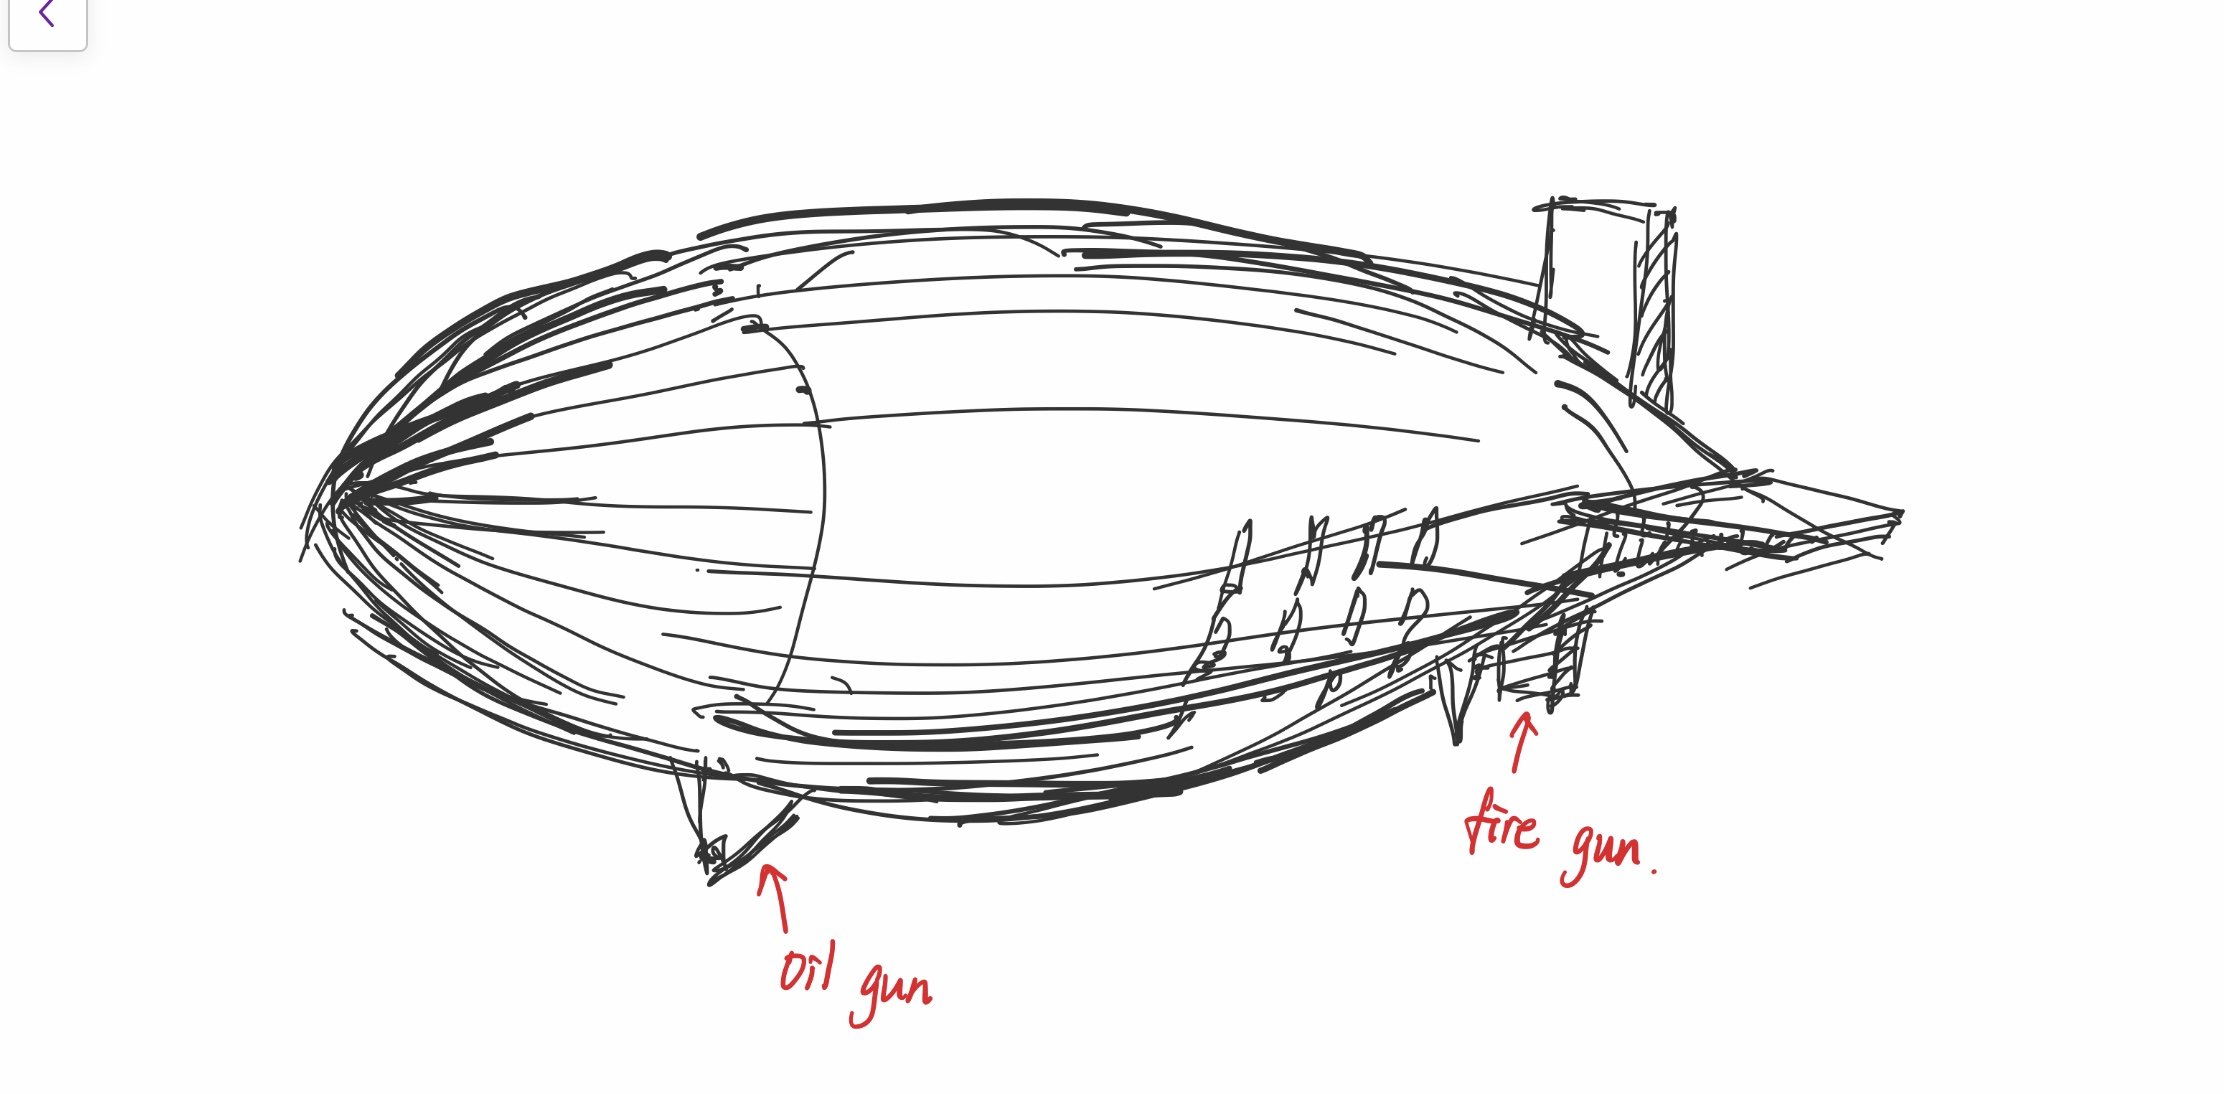
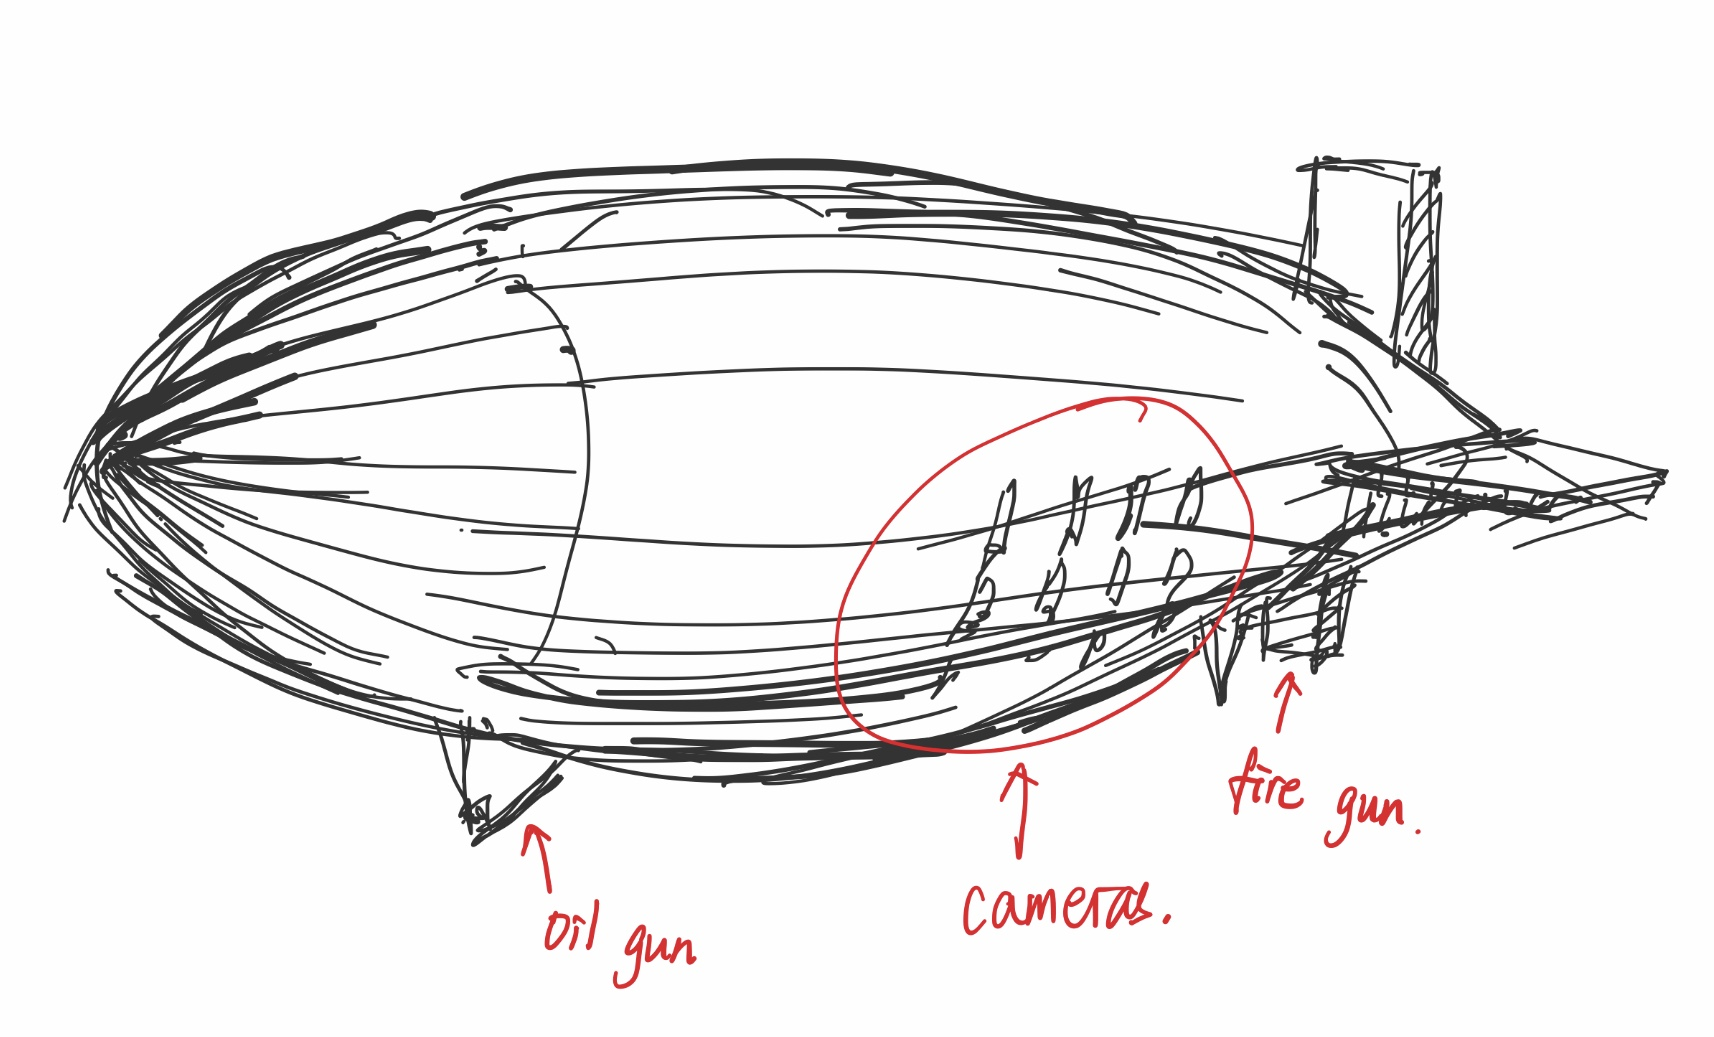
change name for pics

diff --git a/README.md b/README.md
@@ -1,13 +1,14 @@
 # Flatten Indianapolis
 
+The goal for this robot is to flatten the Indianapolis. 
 
 
-# Author
+## Author
 
 - Yixian Liu
 
 
-# Homework 3 Questions
+## Homework 3 Questions
 
 - whatever illustrations or figures you create. Also include a 1-3 pages of text 
   (you should refer to your illustrations) explaining.
@@ -15,7 +16,8 @@
   - myRobot state chart
    ![myRobot](https://github.com/YixianLiu97/2020springAI/blob/master/myRobot.png)
    
-     - From the state chart, my robot can use GPS and the camera for the sensors.  
+     - the state chart has two part, the environment and the agent. The sensor gets the 
+     
   
    
   - myRobot appearance
@@ -26,7 +28,15 @@
     
 - how your robot works.
 
-    - 
+    - When the robot starts and flies in the low-level sky of Indianapolis. it will check 
+    the city with the GPS and its cameras that is the city in the fire. If the city is not 
+    in the fire, my robot will start to destroy Indianapolis with fuel and fire.First, it 
+    will scan the area and see how big it is. If the area is small, then it will ignite the 
+    area with fire directly. If the area is over five acres of land, then it will sprinkle 
+    the area with fuel and ignite the area. It will go over then the whole map once first, 
+    and then check the city with cameras to make sure the whole city is in the fire. If some 
+    part of the city is not in the fire, then it will go to the area and do the destroy part 
+    again.
 
 - the P, E, A, S parts of your robot.
 
@@ -80,4 +90,4 @@
   
 - what type of agent (simple reflex, model-based, goal-based, or utility-based) is it? 
 
-    My robot is **goal-based** agent. 
+   - My robot is **goal-based** agent. 
